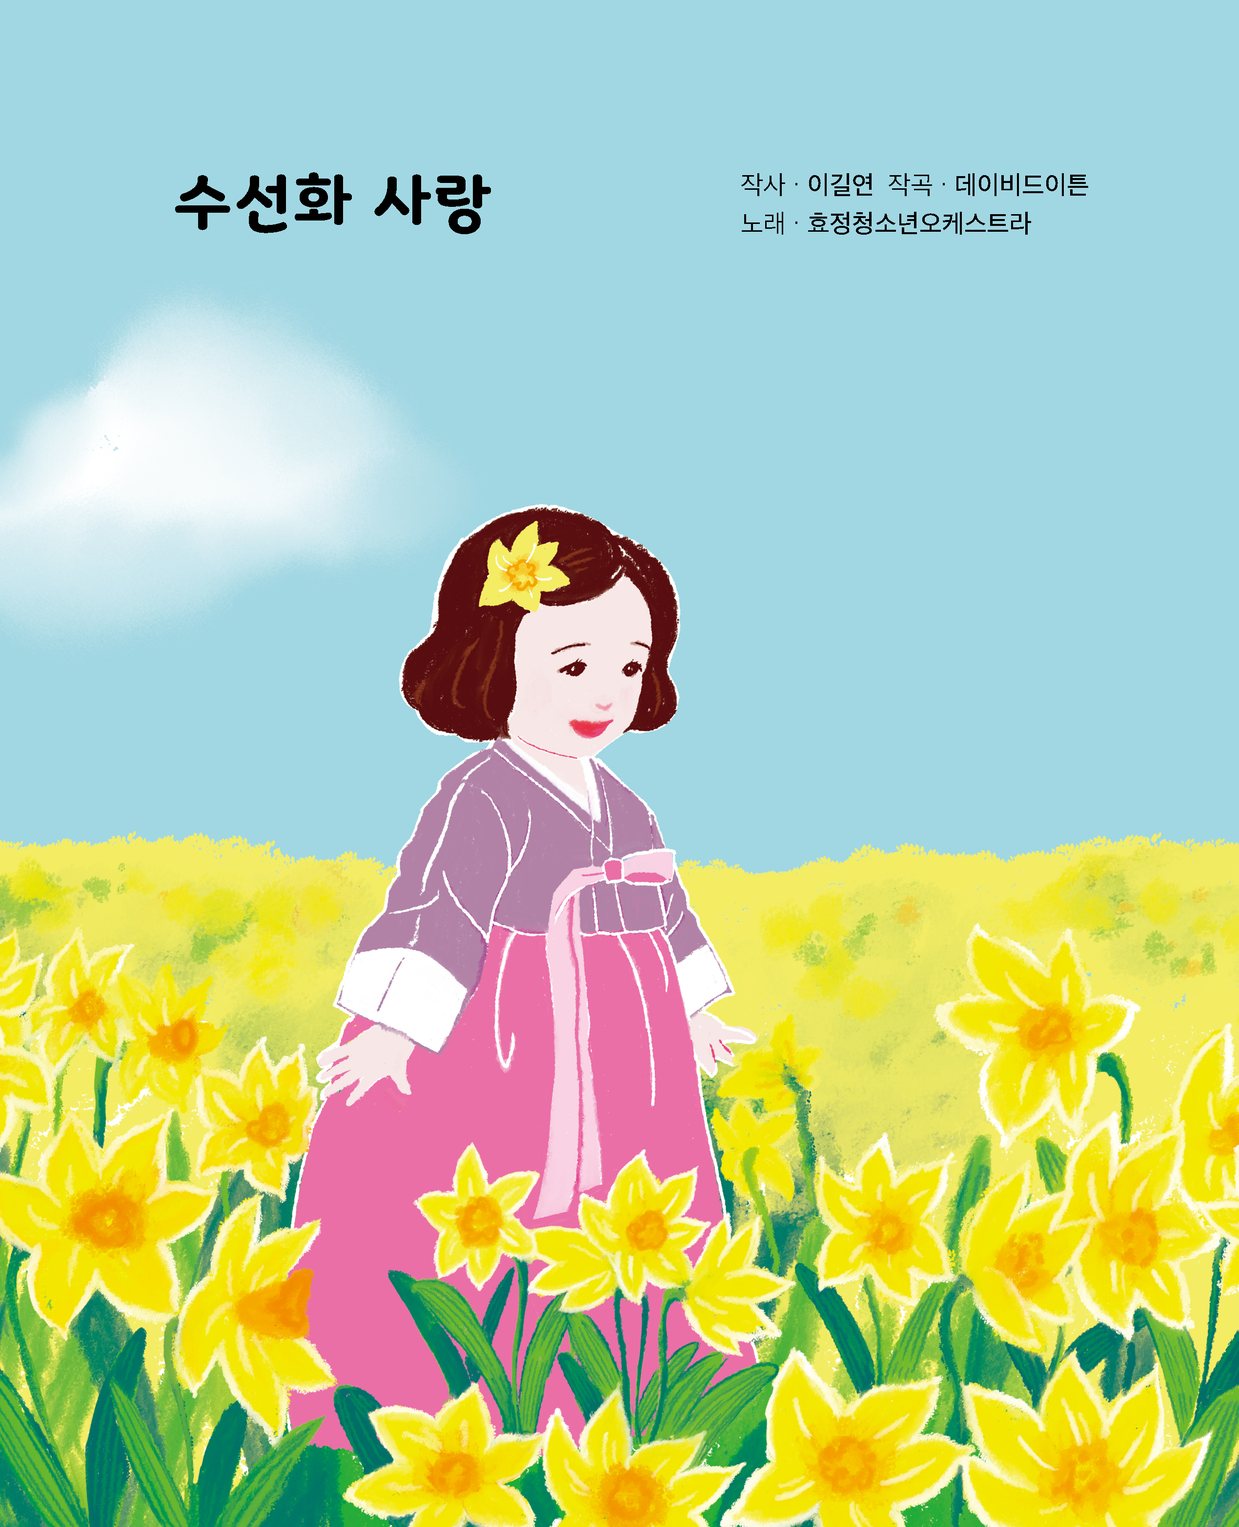
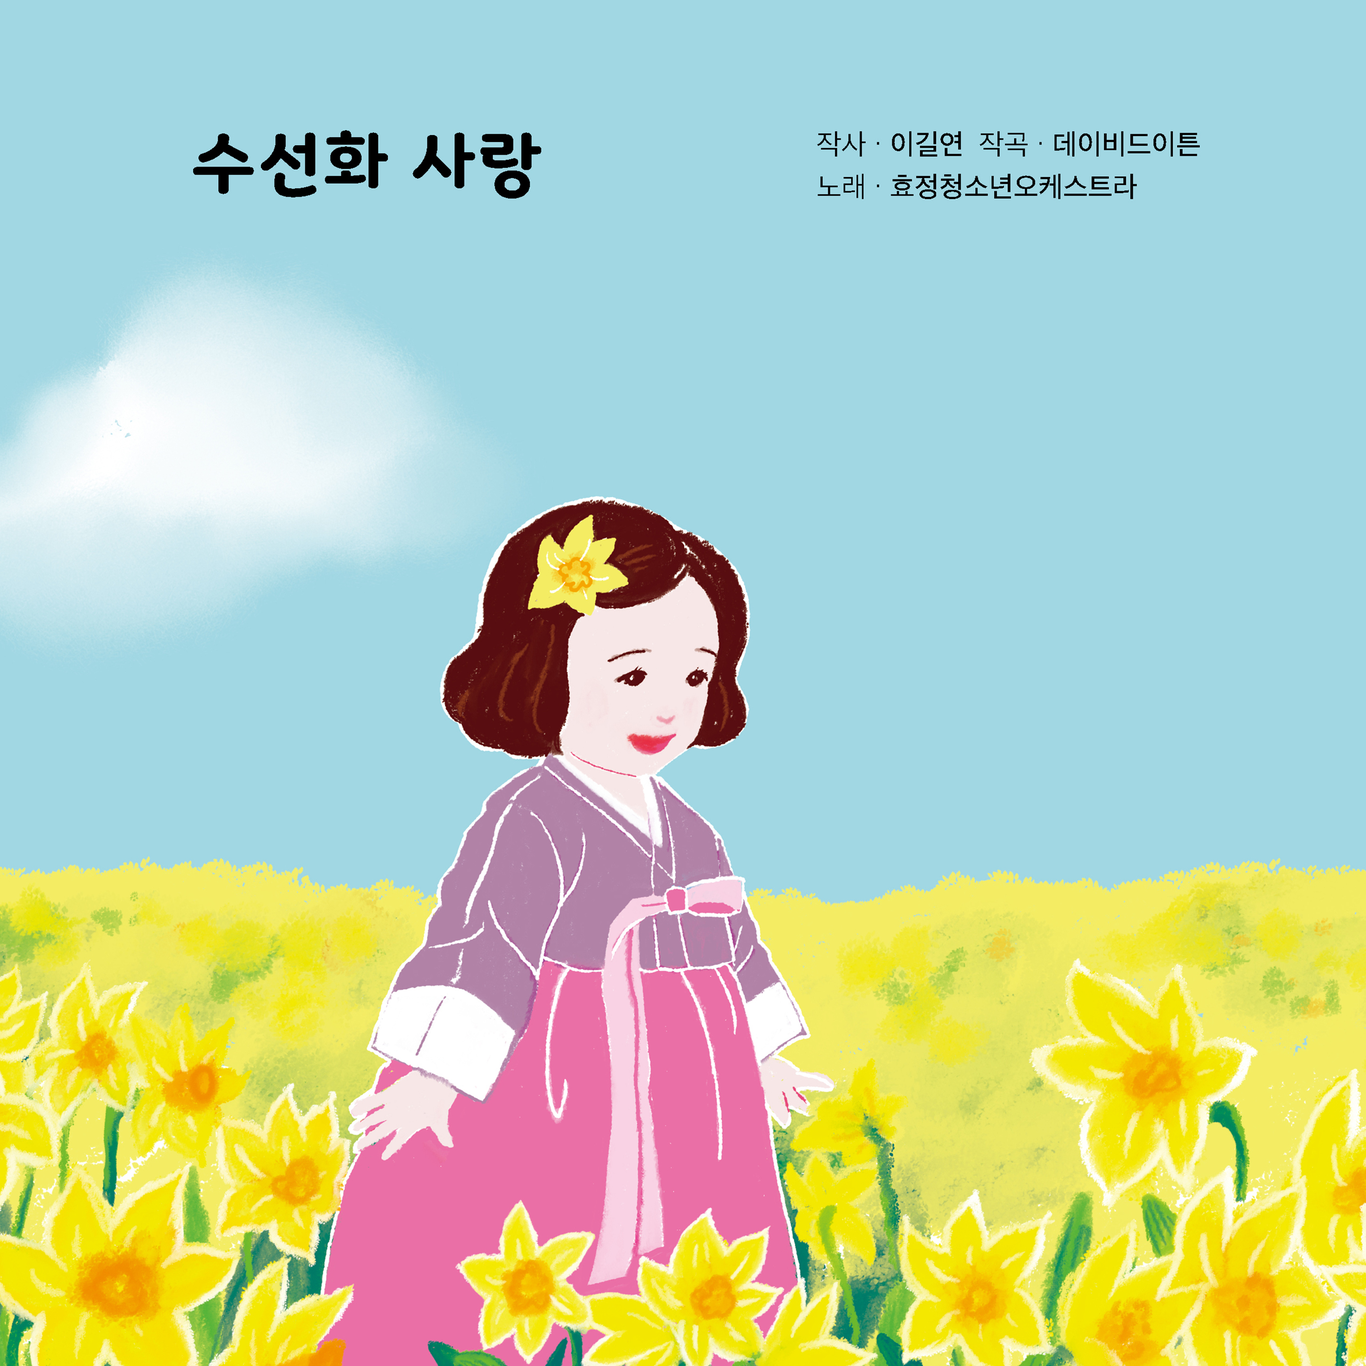
#1605 모심랜딩페이지

diff --git a/momo/views/pages/bootstrap/cd.php b/momo/views/pages/bootstrap/cd.php
@@ -21,10 +21,10 @@
             </div>
             <!-- <div class="inner-content"> -->
                 <div class="row">
-                    <div class="col-lg-4 col-md-6 col-sm-12 block-column">
+                    <div class="col-lg-4 col-md-6 col-sm-12 block-column" style="padding:25px 30px;">
                         <div class="teachers-block-two wow fadeInUp" data-wow-delay="00ms" data-wow-duration="1500ms">
                             <div class="inner-box">
-                                <figure class="image-box"><a href="#"><img src="images/resource/teacher-1.jpg" alt=""></a></figure>
+                                <figure class="image-box"><a href="#"><img src="<?php echo moshim_url('momo') ?>/assets/moshim/images/cd/07.jpg" alt=""></a></figure>
                                 <div class="lower-content">
                                     <h3><a href="#">Kevin Spacey</a></h3>
                                     <!-- <span class="designation">Teacher</span>
@@ -38,10 +38,10 @@
                             </div>
                         </div>
                     </div>
-                    <div class="col-lg-4 col-md-6 col-sm-12 block-column">
+                    <div class="col-lg-4 col-md-6 col-sm-12 block-column" style="padding:25px 30px;">
                         <div class="teachers-block-two wow fadeInUp" data-wow-delay="300ms" data-wow-duration="1500ms">
                             <div class="inner-box">
-                                <figure class="image-box"><a href="#"><img src="images/resource/teacher-2.jpg" alt=""></a></figure>
+                                <figure class="image-box"><a href="#"><img src="<?php echo moshim_url('momo') ?>/assets/moshim/images/cd/09.jpg" alt=""></a></figure>
                                 <div class="lower-content">
                                     <h3><a href="#">Catherine Jones</a></h3>
                                     <!-- <span class="designation">Teacher</span>
@@ -55,10 +55,10 @@
                             </div>
                         </div>
                     </div>
-                    <div class="col-lg-4 col-md-6 col-sm-12 block-column">
+                    <div class="col-lg-4 col-md-6 col-sm-12 block-column" style="padding:25px 30px;">
                         <div class="teachers-block-two wow fadeInUp" data-wow-delay="600ms" data-wow-duration="1500ms">
                             <div class="inner-box">
-                                <figure class="image-box"><a href="#"><img src="images/resource/teacher-3.jpg" alt=""></a></figure>
+                                <figure class="image-box"><a href="#"><img src="<?php echo moshim_url('momo') ?>/assets/moshim/images/cd/11.jpg" alt=""></a></figure>
                                 <div class="lower-content">
                                     <h3><a href="#">John Travolta</a></h3>
                                     <!-- <span class="designation">Teacher</span>
@@ -72,10 +72,10 @@
                             </div>
                         </div>
                     </div>
-                    <div class="col-lg-4 col-md-6 col-sm-12 block-column">
+                    <div class="col-lg-4 col-md-6 col-sm-12 block-column" style="padding:25px 30px;">
                         <div class="teachers-block-two wow fadeInUp" data-wow-delay="00ms" data-wow-duration="1500ms">
                             <div class="inner-box">
-                                <figure class="image-box"><a href="#"><img src="images/resource/teacher-1.jpg" alt=""></a></figure>
+                                <figure class="image-box"><a href="#"><img src="<?php echo moshim_url('momo') ?>/assets/moshim/images/cd/13.jpg" alt=""></a></figure>
                                 <div class="lower-content">
                                     <h3><a href="#">Kevin Spacey</a></h3>
                                     <!-- <span class="designation">Teacher</span>
@@ -89,10 +89,10 @@
                             </div>
                         </div>
                     </div>
-                    <div class="col-lg-4 col-md-6 col-sm-12 block-column">
+                    <div class="col-lg-4 col-md-6 col-sm-12 block-column" style="padding:25px 30px;">
                         <div class="teachers-block-two wow fadeInUp" data-wow-delay="300ms" data-wow-duration="1500ms">
                             <div class="inner-box">
-                                <figure class="image-box"><a href="#"><img src="images/resource/teacher-2.jpg" alt=""></a></figure>
+                                <figure class="image-box"><a href="#"><img src="<?php echo moshim_url('momo') ?>/assets/moshim/images/cd/15.jpg" alt=""></a></figure>
                                 <div class="lower-content">
                                     <h3><a href="#">Catherine Jones</a></h3>
                                     <!-- <span class="designation">Teacher</span>
@@ -106,10 +106,10 @@
                             </div>
                         </div>
                     </div>
-                    <div class="col-lg-4 col-md-6 col-sm-12 block-column">
+                    <div class="col-lg-4 col-md-6 col-sm-12 block-column" style="padding:25px 30px;">
                         <div class="teachers-block-two wow fadeInUp" data-wow-delay="600ms" data-wow-duration="1500ms">
                             <div class="inner-box">
-                                <figure class="image-box"><a href="#"><img src="images/resource/teacher-3.jpg" alt=""></a></figure>
+                                <figure class="image-box"><a href="#"><img src="<?php echo moshim_url('momo') ?>/assets/moshim/images/cd/17.jpg" alt=""></a></figure>
                                 <div class="lower-content">
                                     <h3><a href="#">John Travolta</a></h3>
                                     <!-- <span class="designation">Teacher</span>
@@ -125,10 +125,10 @@
                     </div>
                 </div>
                 <div class="row">
-                    <div class="col-lg-4 col-md-6 col-sm-12 block-column">
+                    <div class="col-lg-4 col-md-6 col-sm-12 block-column" style="padding:25px 30px;">
                         <div class="teachers-block-two wow fadeInUp" data-wow-delay="00ms" data-wow-duration="1500ms">
                             <div class="inner-box">
-                                <figure class="image-box"><a href="#"><img src="images/resource/teacher-1.jpg" alt=""></a></figure>
+                                <figure class="image-box"><a href="#"><img src="<?php echo moshim_url('momo') ?>/assets/moshim/images/cd/19.jpg" alt=""></a></figure>
                                 <div class="lower-content">
                                     <h3><a href="#">Kevin Spacey</a></h3>
                                     <!-- <span class="designation">Teacher</span>
@@ -142,10 +142,10 @@
                             </div>
                         </div>
                     </div>
-                    <div class="col-lg-4 col-md-6 col-sm-12 block-column">
+                    <div class="col-lg-4 col-md-6 col-sm-12 block-column" style="padding:25px 30px;">
                         <div class="teachers-block-two wow fadeInUp" data-wow-delay="300ms" data-wow-duration="1500ms">
                             <div class="inner-box">
-                                <figure class="image-box"><a href="#"><img src="images/resource/teacher-2.jpg" alt=""></a></figure>
+                                <figure class="image-box"><a href="#"><img src="<?php echo moshim_url('momo') ?>/assets/moshim/images/cd/21.jpg" alt=""></a></figure>
                                 <div class="lower-content">
                                     <h3><a href="#">Catherine Jones</a></h3>
                                     <!-- <span class="designation">Teacher</span>
@@ -159,10 +159,10 @@
                             </div>
                         </div>
                     </div>
-                    <div class="col-lg-4 col-md-6 col-sm-12 block-column">
+                    <div class="col-lg-4 col-md-6 col-sm-12 block-column" style="padding:25px 30px;">
                         <div class="teachers-block-two wow fadeInUp" data-wow-delay="600ms" data-wow-duration="1500ms">
                             <div class="inner-box">
-                                <figure class="image-box"><a href="#"><img src="images/resource/teacher-3.jpg" alt=""></a></figure>
+                                <figure class="image-box"><a href="#"><img src="<?php echo moshim_url('momo') ?>/assets/moshim/images/cd/23.jpg" alt=""></a></figure>
                                 <div class="lower-content">
                                     <h3><a href="#">John Travolta</a></h3>
                                     <!-- <span class="designation">Teacher</span>
@@ -176,10 +176,10 @@
                             </div>
                         </div>
                     </div>
-                    <div class="col-lg-4 col-md-6 col-sm-12 block-column">
+                    <div class="col-lg-4 col-md-6 col-sm-12 block-column" style="padding:25px 30px;">
                         <div class="teachers-block-two wow fadeInUp" data-wow-delay="00ms" data-wow-duration="1500ms">
                             <div class="inner-box">
-                                <figure class="image-box"><a href="#"><img src="images/resource/teacher-1.jpg" alt=""></a></figure>
+                                <figure class="image-box"><a href="#"><img src="<?php echo moshim_url('momo') ?>/assets/moshim/images/cd/25.jpg" alt=""></a></figure>
                                 <div class="lower-content">
                                     <h3><a href="#">Kevin Spacey</a></h3>
                                     <!-- <span class="designation">Teacher</span>
@@ -193,10 +193,10 @@
                             </div>
                         </div>
                     </div>
-                    <div class="col-lg-4 col-md-6 col-sm-12 block-column">
+                    <div class="col-lg-4 col-md-6 col-sm-12 block-column" style="padding:25px 30px;">
                         <div class="teachers-block-two wow fadeInUp" data-wow-delay="300ms" data-wow-duration="1500ms">
                             <div class="inner-box">
-                                <figure class="image-box"><a href="#"><img src="images/resource/teacher-2.jpg" alt=""></a></figure>
+                                <figure class="image-box"><a href="#"><img src="<?php echo moshim_url('momo') ?>/assets/moshim/images/cd/27.jpg" alt=""></a></figure>
                                 <div class="lower-content">
                                     <h3><a href="#">Catherine Jones</a></h3>
                                     <!-- <span class="designation">Teacher</span>
@@ -210,10 +210,10 @@
                             </div>
                         </div>
                     </div>
-                    <div class="col-lg-4 col-md-6 col-sm-12 block-column">
+                    <div class="col-lg-4 col-md-6 col-sm-12 block-column" style="padding:25px 30px;">
                         <div class="teachers-block-two wow fadeInUp" data-wow-delay="600ms" data-wow-duration="1500ms">
                             <div class="inner-box">
-                                <figure class="image-box"><a href="#"><img src="images/resource/teacher-3.jpg" alt=""></a></figure>
+                                <figure class="image-box"><a href="#"><img src="<?php echo moshim_url('momo') ?>/assets/moshim/images/cd/29.jpg" alt=""></a></figure>
                                 <div class="lower-content">
                                     <h3><a href="#">John Travolta</a></h3>
                                     <!-- <span class="designation">Teacher</span>

diff --git a/momo/views/pages/bootstrap/soundbooks.php b/momo/views/pages/bootstrap/soundbooks.php
@@ -24,7 +24,7 @@
                  <div class="teachers-block-one wow fadeInUp" data-wow-delay="00ms" data-wow-duration="1500ms">
                      <div class="inner-box">
                          <div class="image-holder">
-                             <figure class="image-box"><a href="#"><img src="<?php echo moshim_url('momo') ?>/assets/moshim/images/soundbook/soundbook_01.jpg" alt=""></a></figure>
+                             <figure class="image-box"><a href="#"><img src="<?php echo moshim_url('momo') ?>/assets/moshim/images/cd/07.jpg" alt=""></a></figure>
                          </div>
                          <div class="lower-content">
                              <h3><a href="#">1. 달래강 노래</a></h3>
@@ -43,7 +43,7 @@
                  <div class="teachers-block-one wow fadeInUp" data-wow-delay="300ms" data-wow-duration="1500ms">
                      <div class="inner-box">
                          <div class="image-holder">
-                             <figure class="image-box"><a href="#"><img src="<?php echo moshim_url('momo') ?>/assets/moshim/images/soundbook/soundbook_02.jpg" alt=""></a></figure>
+                             <figure class="image-box"><a href="#"><img src="<?php echo moshim_url('momo') ?>/assets/moshim/images/cd/09.jpg" alt=""></a></figure>
                          </div>
                          <div class="lower-content">
                              <h3><a href="#">2. 아름다운 이 세상</a></h3>
@@ -62,7 +62,7 @@
                  <div class="teachers-block-one wow fadeInUp" data-wow-delay="600ms" data-wow-duration="1500ms">
                      <div class="inner-box">
                          <div class="image-holder">
-                             <figure class="image-box"><a href="#"><img src="<?php echo moshim_url('momo') ?>/assets/moshim/images/soundbook/soundbook_03.jpg" alt=""></a></figure>
+                             <figure class="image-box"><a href="#"><img src="<?php echo moshim_url('momo') ?>/assets/moshim/images/cd/11.jpg" alt=""></a></figure>
                          </div>
                          <div class="lower-content">
                              <h3><a href="#">3. 하나님은 나의 부모님</a></h3>
@@ -81,7 +81,7 @@
                  <div class="teachers-block-one wow fadeInUp" data-wow-delay="00ms" data-wow-duration="1500ms">
                      <div class="inner-box">
                          <div class="image-holder">
-                             <figure class="image-box"><a href="#"><img src="<?php echo moshim_url('momo') ?>/assets/moshim/images/soundbook/soundbook_04.jpg" alt=""></a></figure>
+                             <figure class="image-box"><a href="#"><img src="<?php echo moshim_url('momo') ?>/assets/moshim/images/cd/13.jpg" alt=""></a></figure>
                          </div>
                          <div class="lower-content">
                              <h3><a href="#">4. 수선화 사랑</a></h3>
@@ -100,7 +100,7 @@
                  <div class="teachers-block-one wow fadeInUp" data-wow-delay="300ms" data-wow-duration="1500ms">
                      <div class="inner-box">
                          <div class="image-holder">
-                             <figure class="image-box"><a href="#"><img src="<?php echo moshim_url('momo') ?>/assets/moshim/images/soundbook/soundbook_05.jpg" alt=""></a></figure>
+                             <figure class="image-box"><a href="#"><img src="<?php echo moshim_url('momo') ?>/assets/moshim/images/cd/15.jpg" alt=""></a></figure>
                          </div>
                          <div class="lower-content">
                              <h3><a href="#">5. 하늘 신부</a></h3>
@@ -119,7 +119,7 @@
                  <div class="teachers-block-one wow fadeInUp" data-wow-delay="600ms" data-wow-duration="1500ms">
                      <div class="inner-box">
                          <div class="image-holder">
-                             <figure class="image-box"><a href="#"><img src="<?php echo moshim_url('momo') ?>/assets/moshim/images/soundbook/soundbook_06.jpg" alt=""></a></figure>
+                             <figure class="image-box"><a href="#"><img src="<?php echo moshim_url('momo') ?>/assets/moshim/images/cd/17.jpg" alt=""></a></figure>
                          </div>
                          <div class="lower-content">
                              <h3><a href="#">6. 산 넘고 바다 건너</a></h3>
@@ -140,7 +140,7 @@
                  <div class="teachers-block-one wow fadeInUp" data-wow-delay="00ms" data-wow-duration="1500ms">
                      <div class="inner-box">
                          <div class="image-holder">
-                             <figure class="image-box"><a href="#"><img src="<?php echo moshim_url('momo') ?>/assets/moshim/images/soundbook/soundbook_07.jpg" alt=""></a></figure>
+                             <figure class="image-box"><a href="#"><img src="<?php echo moshim_url('momo') ?>/assets/moshim/images/cd/19.jpg" alt=""></a></figure>
                          </div>
                          <div class="lower-content">
                              <h3><a href="#">7.효정의 어머니</a></h3>
@@ -159,7 +159,7 @@
                  <div class="teachers-block-one wow fadeInUp" data-wow-delay="300ms" data-wow-duration="1500ms">
                      <div class="inner-box">
                          <div class="image-holder">
-                             <figure class="image-box"><a href="#"><img src="<?php echo moshim_url('momo') ?>/assets/moshim/images/soundbook/soundbook_08.jpg" alt=""></a></figure>
+                             <figure class="image-box"><a href="#"><img src="<?php echo moshim_url('momo') ?>/assets/moshim/images/cd/21.jpg" alt=""></a></figure>
                          </div>
                          <div class="lower-content">
                              <h3><a href="#">8. 어머니의 아들 딸</a></h3>
@@ -178,7 +178,7 @@
                  <div class="teachers-block-one wow fadeInUp" data-wow-delay="600ms" data-wow-duration="1500ms">
                      <div class="inner-box">
                          <div class="image-holder">
-                             <figure class="image-box"><a href="#"><img src="<?php echo moshim_url('momo') ?>/assets/moshim/images/soundbook/soundbook_09.jpg" alt=""></a></figure>
+                             <figure class="image-box"><a href="#"><img src="<?php echo moshim_url('momo') ?>/assets/moshim/images/cd/23.jpg" alt=""></a></figure>
                          </div>
                          <div class="lower-content">
                              <h3><a href="#">9. 어머니 손은 약손</a></h3>
@@ -197,7 +197,7 @@
                  <div class="teachers-block-one wow fadeInUp" data-wow-delay="00ms" data-wow-duration="1500ms">
                      <div class="inner-box">
                          <div class="image-holder">
-                             <figure class="image-box"><a href="#"><img src="<?php echo moshim_url('momo') ?>/assets/moshim/images/soundbook/soundbook_10.jpg" alt=""></a></figure>
+                             <figure class="image-box"><a href="#"><img src="<?php echo moshim_url('momo') ?>/assets/moshim/images/cd/25.jpg" alt=""></a></figure>
                          </div>
                          <div class="lower-content">
                              <h3><a href="#">10. 해가지고 달이 떠도</a></h3>
@@ -216,7 +216,7 @@
                  <div class="teachers-block-one wow fadeInUp" data-wow-delay="300ms" data-wow-duration="1500ms">
                      <div class="inner-box">
                          <div class="image-holder">
-                             <figure class="image-box"><a href="#"><img src="<?php echo moshim_url('momo') ?>/assets/moshim/images/soundbook/soundbook_11.jpg" alt=""></a></figure>
+                             <figure class="image-box"><a href="#"><img src="<?php echo moshim_url('momo') ?>/assets/moshim/images/cd/27.jpg" alt=""></a></figure>
                          </div>
                          <div class="lower-content">
                              <h3><a href="#">11. 아름다운 나라 천일국</a></h3>
@@ -235,7 +235,7 @@
                  <div class="teachers-block-one wow fadeInUp" data-wow-delay="600ms" data-wow-duration="1500ms">
                      <div class="inner-box">
                          <div class="image-holder">
-                             <figure class="image-box"><a href="#"><img src="<?php echo moshim_url('momo') ?>/assets/moshim/images/soundbook/soundbook_12.jpg" alt=""></a></figure>
+                             <figure class="image-box"><a href="#"><img src="<?php echo moshim_url('momo') ?>/assets/moshim/images/cd/29.jpg" alt=""></a></figure>
                          </div>
                          <div class="lower-content">
                              <h3><a href="#">12. 새로운 세상 우리 함께해요</a></h3>

diff --git a/momo/views/main/bootstrap/main_moshim.php b/momo/views/main/bootstrap/main_moshim.php
@@ -98,7 +98,7 @@
             <div class="icon icon-1"></div>
             <div class="icon icon-2"></div>
         </div>
-        <div class="image-column" style="background-image: url(images/background/feature-bg.jpg);"></div>
+        <div class="image-column" style="background-image: url(<?php echo moshim_url('momo') ?>/assets/moshim/images/main_hjmap.jpg);"></div>
         <div class="container">
             <div class="row">
                 <div class="col-xl-5 col-lg-12 col-md-12 offset-xl-7 inner-column">
@@ -384,7 +384,7 @@
     <!-- 동요 끝 -->
 
     <!-- 참어머님 생애동요 CD 시작 -->
-    <section class="service-section sec-pad" style="background-image: url(<?php echo moshim_url('momo') ?>/assets/moshim/images/background/service-bg.jpg);">
+    <section class="service-section sec-pad" style="background-image: url(<?php echo moshim_url('momo') ?>/assets/moshim/images/main_cd_cover.jpg);">
         <div class="container">
             <div class="row">
                 <div class="col-lg-4 col-md-12 col-sm-12 inner-column">

diff --git a/momo/views/_layout/bootstrap/layout_moshim.php b/momo/views/_layout/bootstrap/layout_moshim.php
@@ -158,7 +158,7 @@
             <div class="container">
                 <div class="clearfix">
                     <div class="logo-box pull-left">
-                        <figure style="position: relative; display: inline-block; padding: 26px 0px;"><a href="index.html"><img src="<?php echo moshim_url('momo') ?>/assets/moshim/images/logo_1.jpg" alt="" style="height:75px"></a></figure>
+                        <figure style="position: relative; display: inline-block; padding: 26px 0px;"><a href="/"><img src="<?php echo moshim_url('momo') ?>/assets/moshim/images/logo_1.jpg" alt="" style="height:75px"></a></figure>
                     </div>
                     <div class="nav-outer pull-right clearfix">
                         <div class="menu-area">
